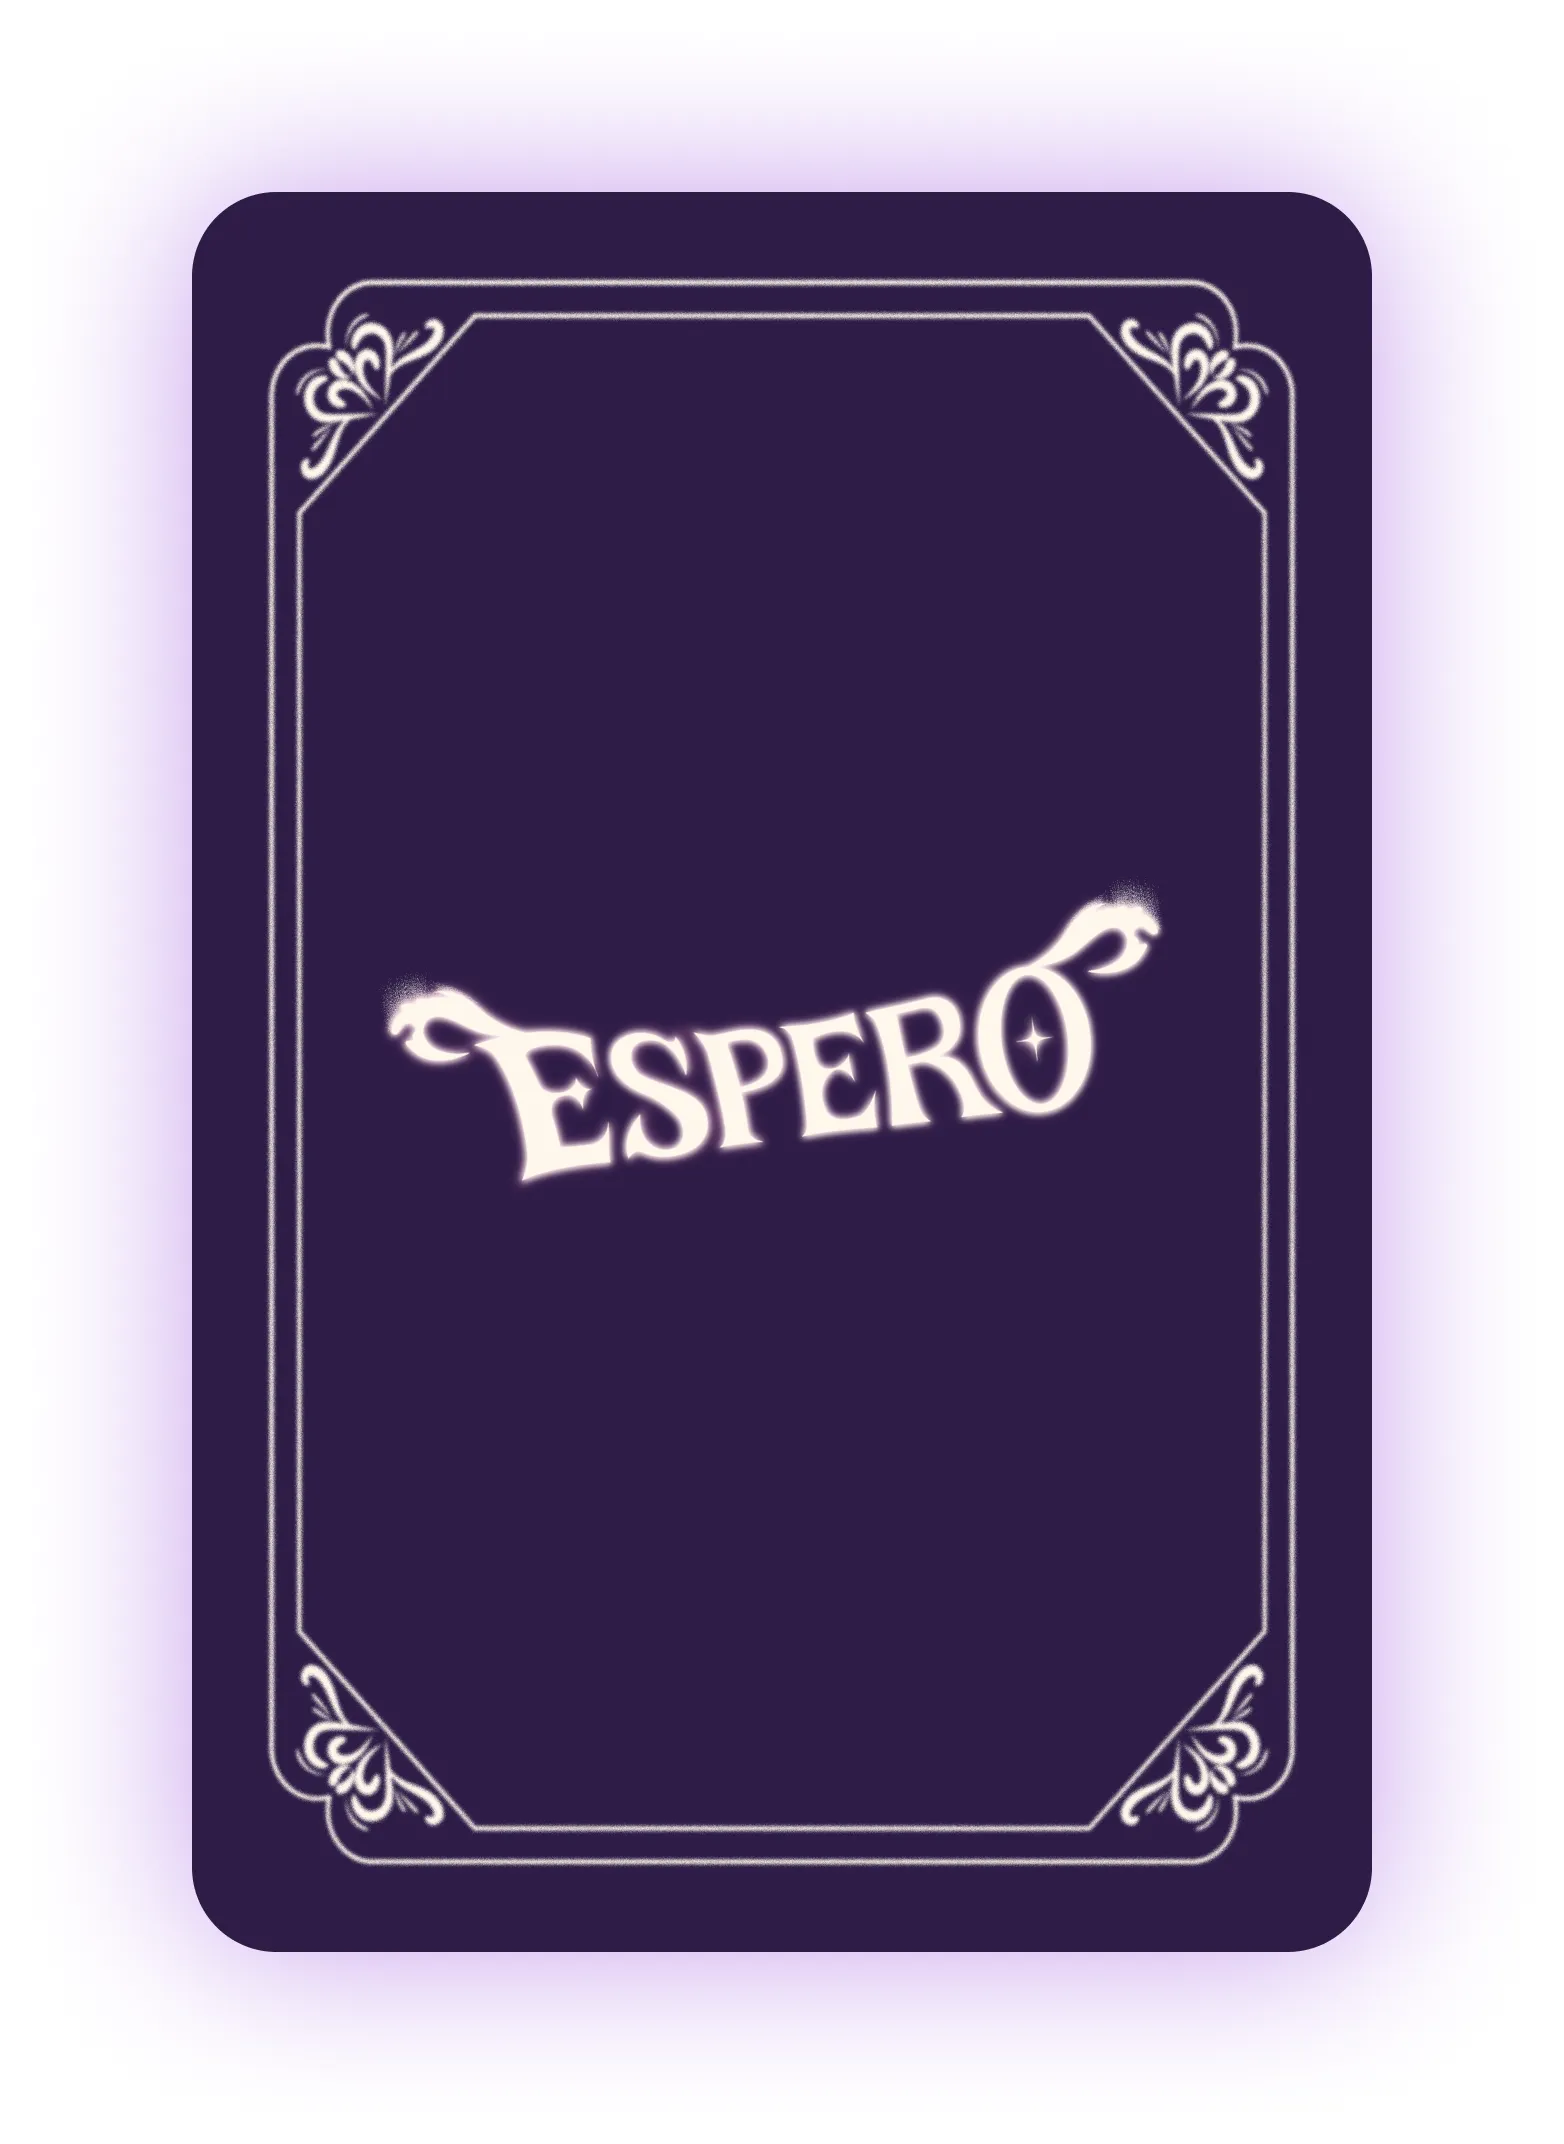
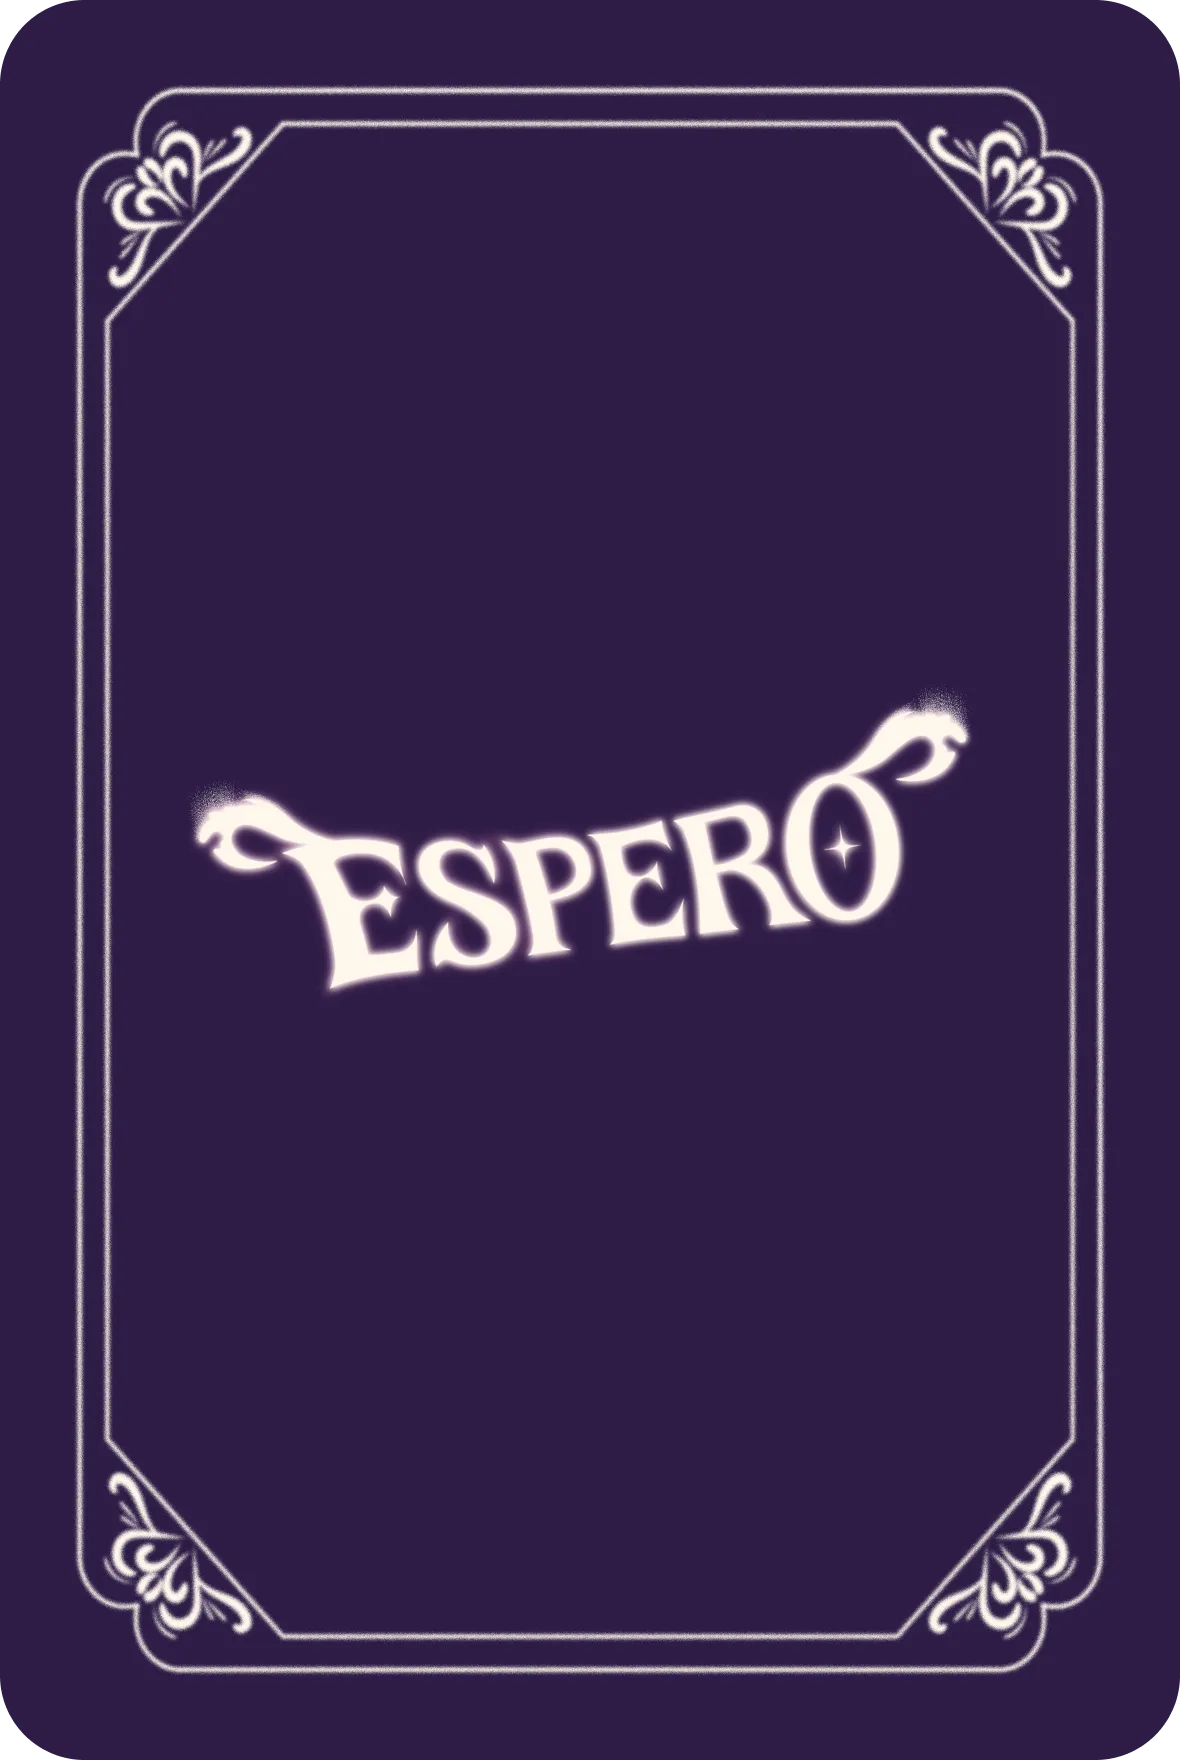
fix: 운세 관련 화면 레이아웃 수정 및 고화화질 이미지 반영

diff --git a/src/pages/main/fortune/FortuneOnboarding.styles.ts b/src/pages/main/fortune/FortuneOnboarding.styles.ts
@@ -6,7 +6,7 @@ export const Container = styled.div`
   background: linear-gradient(180deg, #7e419a 0%, #2d1c46 49%);
   display: flex;
   flex-direction: column;
-  overflow-y: hidden;
+  overflow-y: auto;
   padding-top: 3.875rem;
 `;
 
@@ -40,18 +40,13 @@ export const Memo = styled.p`
   color: ${({ theme }) => theme.colors.grayScale.white}75;
   text-shadow: 0px 0px 5px ${({ theme }) => theme.colors.grayScale.white}75;
   text-align: center;
-  position: fixed;
-  bottom: 2rem;
-  left: 50%;
-  transform: translateX(-50%);
-  z-index: 100;
 `;
 
 export const InputSection = styled.div`
   display: flex;
   flex-direction: column;
   gap: 5px;
-  width: 100%;
+  width: calc(100% - 2.5rem);
   max-width: 400px;
   margin-top: 1rem;
 `;
@@ -80,7 +75,7 @@ export const Fortunelotties = styled.div`
   background: transparents;
   border-radius: 16px;
   padding: 0rem;
-  width: 100%;
+  width: calc(100% - 2.5rem);
   height: 350px;
   max-width: 400px;
   text-align: center;
@@ -91,7 +86,6 @@ export const RefreshButton = styled.button`
   ${(props) => props.theme.fonts.header.h4};
   background: ${({ theme }) => theme.colors.primary.violet};
   width: calc(100% - 2.5rem);
-  max-width: 400px;
   color: white;
   border: none;
   border-radius: 50px;
@@ -99,9 +93,4 @@ export const RefreshButton = styled.button`
   cursor: pointer;
   transition: all 0.2s ease;
   box-shadow: 0px 0px 8px ${({ theme }) => theme.colors.primary.violet};
-  position: fixed;
-  bottom: 3.7rem;
-  left: 50%;
-  transform: translateX(-50%);
-  z-index: 100;
 `;

diff --git a/src/pages/main/fortune/FortuneResult.styles.ts b/src/pages/main/fortune/FortuneResult.styles.ts
@@ -7,7 +7,6 @@ export const Container = styled.div`
   display: flex;
   flex-direction: column;
   overflow-y: hidden;
-  padding-top: 3.875rem;
 `;
 
 export const Content = styled.div`
@@ -49,8 +48,8 @@ export const Card = styled.img<{ $isFlipped: boolean }>`
   transition: all 0.8s ease;
   transform-style: preserve-3d;
   box-shadow:
-    0 20px 40px rgb(0 0 0 / 30%),
-    0 8px 16px rgb(0 0 0 / 20%);
+    0 0 20px 6px ${({ theme }) => theme.colors.secondary.DS_Card}50,
+    0 0 30px 12px ${({ theme }) => theme.colors.secondary.DS_Card}30;
   border-radius: 12px;
   border: none;
   background: transparent;

diff --git a/src/pages/main/fortune/FortuneResult.tsx b/src/pages/main/fortune/FortuneResult.tsx
@@ -3,8 +3,8 @@ import { useNavigate, useLocation } from 'react-router-dom';
 import { NavBar } from '@/components/nav-bar';
 import * as S from './FortuneResult.styles';
 import { useLayoutStore } from '@/stores/useLayoutStore';
-import FortuneCardBack from '@/assets/images/fortune/Backdummy.png';
-import ResultDummy from '@/assets/images/fortune/resultdummy.png';
+import FortuneCardBack from '@/assets/images/fortune/FortuneCardBack_big.webp';
+import ResultDummy from '@/assets/images/fortune/resultdummy.webp';
 
 interface LocationState {
   selectedCardIndex: number;

diff --git a/src/pages/main/fortune/FortuneSelecting.styles.ts b/src/pages/main/fortune/FortuneSelecting.styles.ts
@@ -6,8 +6,7 @@ export const Container = styled.div`
   background: linear-gradient(180deg, #7e419a 0%, #2d1c46 49%);
   display: flex;
   flex-direction: column;
-  overflow: hidden;
-  padding-top: 3.875rem;
+  overflow: auto;
 `;
 
 export const Content = styled.div`

diff --git a/src/styles/theme.ts b/src/styles/theme.ts
@@ -42,6 +42,7 @@ const colors = {
     pk100: '#F5D5FF',
     vl100: '#DBC2EC',
     vl50: '#F0E7F3',
+    DS_Card: '#8D38D8',
   },
   grayScale: {
     white: '#FAFAFA',
